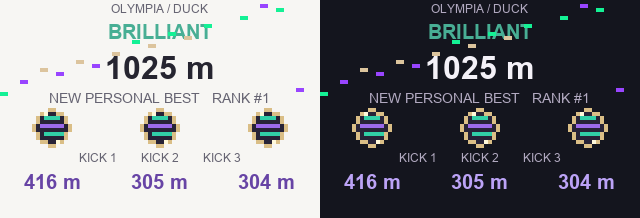
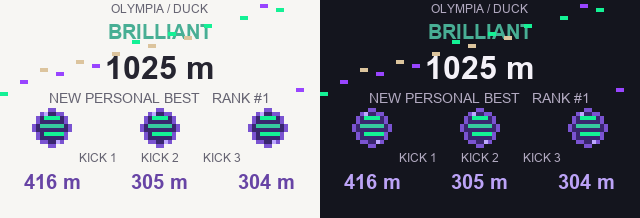
feat: zoomed play and mesh nearby score sharing

diff --git a/sim.py b/sim.py
@@ -13,6 +13,8 @@ def state(): return G._S.mode
 
 def play_swing(release_at_y):
     """hold select from the first tick, release when token y >= release_at_y"""
+    while state() == "intro": tick()
+    assert state() == "drop"
     keys["select"] = True
     while state() == "drop":
         tick()
@@ -32,48 +34,63 @@ G.on_key("up", False)
 assert store.get("map") == 2, "UP should cycle map without starting the game"
 G.on_key("up", False); assert store.get("map") == 3
 G.on_key("up", False); assert store.get("map") == 4, "Olympia must be selectable"
-assert any(x == ("label", "UP  OLYMPIA") for x in log)
+assert any(x == ("label", "^v  OLYMPIA") for x in log)
 G.on_key("up", False); assert store.get("map") == 1, "map selection must wrap"
 G.on_key("up", False); assert store.get("map") == 2
-assert any(x == ("label", "UP  COVENT GARDEN") for x in log)
+assert any(x == ("label", "^v  COVENT GARDEN") for x in log)
 tick(2)  # exercise the preview renderer after switching maps
 G.on_key("left", False)  # wraps past the hidden skin
 assert store.get("skin") == 9, "hidden skin must be skipped before stage 1 is done"
-G.on_key("down", False); assert store.get("stick") == 1, "locked bat must be skipped"
-G.on_key("select", False); assert state() == "drop", state()
+G.on_key("down", False); assert store.get("map") == 1, "DOWN selects the previous map"
+G.on_key("down", False); assert store.get("map") == 4, "DOWN wraps from first to last map"
+G.on_key("up", False); assert store.get("map") == 1
+G.on_key("up", False); assert store.get("map") == 2
+G.on_key("select", False); assert state() == "intro", state()
+tick(21); assert state() == "drop", "parallax intro must finish"
 assert G._S.map == 2, "selected scene must carry into gameplay"
-results = [play_swing(29), play_swing(20), play_swing(45)]
+results = [play_swing(43), play_swing(36), play_swing(60)]
 assert store.get("stage1Done") is True, "Sabadinhos skin should unlock after stage 1"
 G.on_key("back", False); assert state() == "title"
 G.on_key("right", False); assert store.get("skin") == 10, "Sabadinhos should be selectable after stage 1"
-G.on_key("select", False); assert state() == "drop", "unlocked skin should launch immediately"
+G.on_key("select", False); assert state() == "intro", "unlocked skin should launch immediately"
 G.on_key("back", False); assert state() == "title"
 print("swings (mode, secs, total):", results)
 print("final mode:", state(), "total:", round(G._S.total), "best:", store.get("best"), "awards:", awards)
 print("hints/toasts:", [x for x in log if x[0] != "label"][-4:])
 print("labels:", [x[1] for x in log if x[0] == "label"][-8:])
 
-G.on_key("select", False); assert state() == "drop"
-r2 = [play_swing(29) for _ in range(3)]
+G.on_key("select", False); assert state() == "intro"
+r2 = [play_swing(43) for _ in range(3)]
 print("run2:", r2, "mode:", state(), "awards:", awards)
 assert state() == "end"
 assert len(G._S.shots) == 3 and sum(G._S.shots.values()) == int(G._S.total), "all kick scores must be on the result"
 assert G._S.celebrate > 0, "end scene confetti must begin"
 assert any(x[0] == "label" and "KICK 1" in x[1] for x in log), "end scene must show individual kicks"
 tick(100); assert G._S.celebrate == 0, "confetti must stop instead of burning CPU"
-G.on_key("select", False); assert state() == "drop" and len(G._S.shots) == 0, "replay must reset kick stats"
+G.on_key("select", False); assert state() == "intro" and len(G._S.shots) == 0, "replay must reset kick stats"
 G.on_key("back", False); assert state() == "title"
-G.on_key("select", False); assert state() == "drop"
-[play_swing(29) for _ in range(3)]
+G.on_key("select", False); assert state() == "intro"
+[play_swing(43) for _ in range(3)]
 assert state() == "end"
+G.on_key("down", False); assert store.get("stick") == 2
+G.on_key("down", False); assert store.get("stick") == 1, "locked Ledger must be skipped"
+G.on_mesh("FRIEND1", L.table(kind="moonshot-score", value=777))
+assert store.get("peers")["FRIEND1"]["name"] == "@friend"
+G.on_mesh("FRIEND1", L.table(kind="moonshot-score", value=600))
+assert store.get("peers")["FRIEND1"]["score"] == 777, "peer personal best must not decrease"
+G.on_mesh("BAD1111", L.table(kind="moonshot-score", value=999999))
+G.on_mesh("BAD2222", L.table(kind="moonshot-score", value=123.5))
+G.on_mesh("7K2Q9M", L.table(kind="moonshot-score", value=999))
+assert store.get("peers")["BAD1111"] is None and store.get("peers")["BAD2222"] is None
+assert store.get("peers")["7K2Q9M"] is None
 G.on_key("up", False); assert state() == "ranks", state()
+assert any(i.get("title", "").endswith("@friend") for x in log if x[0] == "list" for i in x[1])
 print("rank list:", [x for x in log if x[0] == "list"][-1])
 G.on_key("back", False); assert state() == "title"
 print("OK")
 
-# bats remain a separate DOWN action on the title screen
-G.on_key("down", False); print("stick:", store.get("stick"), [x[1] for x in log if x[0]=="label"][-1])
-G.on_key("down", False); print("stick:", store.get("stick"), [x[1] for x in log if x[0]=="label"][-1])
-G.on_key("select", False); print("mode after select on stick 3 (best=%s):" % store.get("best"), state())
+# DOWN on title moves the map, while the selected bat persists after the result screen.
+G.on_key("down", False); assert store.get("stick") == 1
+G.on_key("select", False); print("mode after replay (best=%s):" % store.get("best"), state())
 print("ranks stored:", store.get("ranks") and [dict(v.items()) for v in store.get("ranks").values()])
 print("OK2")

diff --git a/scripts/map_art.py b/scripts/map_art.py
@@ -18,6 +18,12 @@ def scene(kind):
   box(16,7,21,9,'s');box(17,7,20,8,'d');dot(19,8,'c')
   box(17,11,18,15,'s');box(20,11,20,15,'s')
   box(51,13,75,16,'l');box(57,10,67,12,'l');box(61,8,63,9,'l')
+  # The London Eye stays faint and distant behind the skyline.
+  for x in range(55,70):
+   for y in range(1,15):
+    r=(x-62)*(x-62)+(y-7)*(y-7)
+    if 30<=r<=44:dot(x,y,'s')
+  box(62,9,62,14,'l')
  elif kind=='TOWER BRIDGE':
   # Twin neo-Gothic towers connected by suspended arches above the Thames.
   box(4,14,76,16,'l');box(8,12,72,13,'d')
@@ -38,20 +44,16 @@ def scene(kind):
    box(x,10,x+6,14,'l');box(x+1,9,x+5,9,'s');box(x+2,11,x+4,14,'d')
   box(12,2,16,3,'l');box(62,2,67,3,'l')
  elif kind=='OLYMPIA':
-  # Olympia Grand Hall's arched glass roof; the Eye reads as a London landmark.
-  box(2,13,47,16,'d')
-  for x in range(4,46):
-   y=3+((x-24)*(x-24))//82
-   dot(x,y,'s');box(x,y+1,x,12,'l')
-  for x in range(9,45,7):box(x,8,x,12,'d')
-  box(19,1,29,2,'s');box(6,12,44,12,'d')
-  for x in range(53,72):
-   for y in range(0,17):
-    radius=(x-62)*(x-62)+(y-8)*(y-8)
-    if 52<=radius<=78:dot(x,y,'s')
-  box(61,7,63,9,'c');box(61,10,63,16,'d')
-  for x,y in ((62,1),(62,15),(54,8),(70,8)):dot(x,y,'c')
-  box(49,15,76,16,'l')
+  # Single arched iron-and-glass Grand Hall; no unrelated wheel beside it.
+  box(3,13,76,16,'d')
+  for x in range(7,73):
+   y=2+((x-39)*(x-39))//145
+   dot(x,y,'s')
+   if x%3==0:box(x,y+1,x,12,'l')
+  box(7,11,72,12,'s')
+  for x in range(10,72,12):
+   box(x,12,x+1,16,'s');box(x+3,13,x+9,15,'l')
+  box(34,1,45,1,'s')
  else:raise ValueError(kind)
  return [''.join(row) for row in g]
 
@@ -83,15 +85,13 @@ def icon(kind):
    box(x,9,x+4,14,'s');box(x+1,10,x+3,14,'l');box(x+2,11,x+2,14,'.')
   box(2,8,2,15,'s');box(21,8,21,15,'s')
  elif kind=='OLYMPIA':
-  box(1,14,12,16,'d')
-  for x in range(1,13):
-   y=4+((x-6)*(x-6))//8
-   box(x,y,x,13,'l');box(x,y,x,y,'s')
-  for x in range(13,24):
-   for y in range(1,16):
-    r=(x-18)*(x-18)+(y-8)*(y-8)
-    if 32<=r<=54:g[y][x]='s'
-  box(17,8,19,9,'c');box(18,10,18,16,'d')
+  box(1,14,22,16,'d')
+  for x in range(2,22):
+   y=2+((x-11)*(x-11))//12
+   box(x,y,x,y,'s')
+   if x%2==0:box(x,y+1,x,13,'l')
+  box(2,12,21,13,'s')
+  for x in (3,8,13,18):box(x,13,x,16,'d')
  else:raise ValueError(kind)
  return [''.join(row) for row in g]
 

diff --git a/scripts/end_study.py b/scripts/end_study.py
@@ -8,7 +8,7 @@ def font(n,b=False):return ImageFont.truetype(BOLD if b else FONT,n)
 def center(d,text,y,size,color,x=0,w=320,b=False):
  f=font(size,b);tw=d.textbbox((0,0),text,font=f)[2]
  d.text((x+(w-tw)//2,y),text,font=f,fill=color)
-colors={'.':None,'y':'#DABE86','k':'#272337','e':'#31CFA7','b':'#9B6AEA','w':'#FFF9DA'}
+colors={'.':None,'y':'#7A53D1','k':'#39266E','e':'#14F195','b':'#36C99F','w':'#BEA9FF'}
 out=Image.new('RGB',(640,218))
 for theme in range(2):
  bg='#F7F6F3' if theme==0 else '#14151E';ink='#262530' if theme==0 else '#F4F1F8';muted='#666472' if theme==0 else '#B1A9C0';purple='#6744A5' if theme==0 else '#BCA3F7'

diff --git a/scripts/menu_study.py b/scripts/menu_study.py
@@ -42,9 +42,9 @@ for theme in range(2):
   center(d,'SOL TO THE MOON',4,f(27,True),ink)
   center(d,'MAP',36,f(11,True),muted,0,160)
   center(d,'CHARACTER',36,f(11,True),muted,160,320)
-  center(d,'UP  '+mapname,129,f(13,True),purple,0,160)
+  center(d,'^v  '+mapname,129,f(13,True),purple,0,160)
   center(d,'< '+name+' >',129,f(13,True),purple,160,320)
-  center(d,'DOWN  BROLLY  /  balanced',154,f(14),muted)
+  center(d,'BAT  BROLLY  /  balanced',154,f(14),muted)
   d.rounded_rectangle((74,175,246,203),radius=6,fill=(72,174,148))
   center(d,'SELECT  PLAY',178,f(20,True),(255,255,255))
   out.paste(im,(i*320,theme*218))

diff --git a/sim_env.py b/sim_env.py
@@ -71,6 +71,8 @@ def load(seed=None):
                         remove=lambda k: store.pop(k, None))
     G.led = L.table(count=8, set=noop, hex=noop, fill=noop, off=noop)
     G.badge = L.table(owner=lambda: "@tester", id=lambda: "7K2Q9M")
+    G.mesh = L.table(send=lambda to, msg: log.append(("mesh", to, msg["value"])),
+                     nearby=lambda: L.table_from([L.table(id="FRIEND1", name="@friend", level=42)]))
     G.sys = L.table(keys=lambda: L.table(select=keys["select"]), millis=lambda: 0)
 
     def award(amount, reason, cb):

diff --git a/calib.py b/calib.py
@@ -6,9 +6,11 @@ def run_case(power, dy, wind, seed=0):
     L, G, keys = sim_env.load(seed=seed)
     G.on_key("select", False)
     S = G._S
+    assert S.mode == "intro"
+    S.mode = "drop"  # skip only the intro; keep calibrated gameplay physics
     S.wind = wind; S.power = power
-    S.wait = 0  # skip the stage intro for direct physics calibration
-    S.token.y = 33 - 4 + dy
+    S.wait = 0
+    S.token.y = 47 - 4 + dy
     S.charging = True
     keys["select"] = False
     G.on_tick(30)

diff --git a/scripts/token_art.py b/scripts/token_art.py
@@ -17,7 +17,7 @@ def coin(frame=0):
     return [''.join(row) for row in p]
 
 if __name__=='__main__':
-    colors={'.':(25,23,34),'y':(218,190,134),'k':(39,35,55),'e':(49,207,167),'b':(155,106,234),'w':(255,249,218)}
+    colors={'.':(25,23,34),'y':(122,83,209),'k':(57,38,110),'e':(20,241,149),'b':(54,201,159),'w':(190,169,255)}
     im=Image.new('RGB',(100,50),colors['.'])
     for f in range(2):
         for y,row in enumerate(coin(f)):

diff --git a/README.md b/README.md
@@ -6,19 +6,19 @@ A SOL coin drops. Hold SELECT to charge power, release when it crosses the bat. 
 
 ## Characters and UI
 
-Ten original 16×18 logical-pixel sprites, shown at 4× (64×72 screen pixels): Duck, Cute Animal (fox), Beanie Degen, Senior Dev, Ponytail Dev, Bob Builder, Validator, Onchain Artist, DAO Scout, and Sabadinhos. Sabadinhos is hidden until completing stage one. The native screen is 320×240, with 320×218 available to apps; gameplay renders on an 80×54 canvas at 4×. Each character uses the same seafoam/peach/lavender family with multiple skin shades and distinct accessories. Art source: `scripts/character_art.py`. Preview sheets are `shots/character_study_light.png` and `shots/character_study_dark.png` (art studies, not emulator screenshots). Reference studies only: [Sonic Advance 2 animals](https://www.spriters-resource.com/game_boy_advance/sonicadv2/asset/76977) and [Final Fantasy V Advance portraits](https://www.spriters-resource.com/game_boy_advance/finalfantasy5advance/asset/5156). No third-party sprites copied.
+Ten original 16×18 logical-pixel sprites: Duck, Cute Animal (fox), Beanie Degen, Senior Dev, Ponytail Dev, Bob Builder, Validator, Onchain Artist, DAO Scout, and Sabadinhos. Sabadinhos unlocks after the first kick. The native screen is 320×240, with 320×218 available to apps. Menu/results use an 80×54 canvas at 4×; gameplay is zoomed out on a 106×72 canvas at 3×. Art source: `scripts/character_art.py`. Preview sheets are art studies, not emulator screenshots.
 
 Native `ui.label` supports sizes 12/14/20/32 and `mono`, but no arbitrary font-family. The menu uses built-in ABC Diatype labels and theme colors. Idle sprites alternate between two cached frames every 200 ms: the second removes one waist row, lifting the feet by one canvas pixel. No GIF decoder, file reads or per-frame image loading.
 
-Four original, restrained London pixel backdrops (Westminster with Big Ben, Tower Bridge, Covent Garden, and Olympia with an arched hall and London Eye) appear as transparent 80×17 parallax strips during play. The menu has transparent 24×17 landmark emblems on the left and a character face on the right. The result scene shows total, individual kicks, personal best/rank, and brief confetti. Art sources: `scripts/map_art.py`, `scripts/token_art.py`; `shots/menu_final_study.png` and `shots/end_study.png` are generated layout studies, not badge screenshots.
+Four London pixel maps: Westminster (Big Ben and a distant London Eye), Tower Bridge, Covent Garden, and Olympia (one arched Grand Hall). The menu has transparent landmark emblems and character faces. A 0.6-second faux-3D parallax fly-in moves foreground faster than the skyline before each kick. The SOL coin uses only purple/green tones. `shots/menu_final_study.png` and `shots/end_study.png` are generated layout studies, not badge screenshots.
 
 ## Controls
 
-- SELECT: start immediately; during the run hold for charge and release to swing
+- UP / DOWN (menu): cycle maps forward/back in the left-hand panel
 - LEFT / RIGHT (menu): cycle unlocked characters in the right-hand panel
-- UP (menu): cycle four maps in the left-hand panel (Westminster, Tower Bridge, Covent Garden, Olympia). Each run still has three kicks.
-- DOWN (menu): cycle sticks (Brolly, Big Ben, Ledger; the last two unlock by best score)
-- UP (end screen): local top-five rank board
+- SELECT: start immediately; during a kick hold for charge and release to swing
+- DOWN (end screen): choose the next unlocked bat (Brolly, Big Ben, Ledger)
+- UP (end screen): scores from you and badges met while running this same app
 - CANCEL: back to menu / exit
 
 ## Test and transfer
@@ -26,5 +26,7 @@ Four original, restrained London pixel backdrops (Westminster with Big Ben, Towe
 Use the `app.json` and `main.lua` files on the [app submission page](https://solana.com/breakpoint/badge/apps/submit). Try in emulator or Run on badge (desktop Chrome/Edge via USB); publishing is a separate step. Do not upload the entire repository, which includes Python tests and screenshots.
 
 For local simulation, create `.venv` with Lua 5.5 `lupa` and run `sim.py`. `calib.py 10` runs a physics sweep. Both are headless; physical badge visual and performance QA remain necessary.
+
+The scoreboard uses the `mesh` permission to exchange personal-best scores with nearby badges **running this app**. It saves the last eight peers seen and shows the top five with your own best. This is not a global Yearbook ranking or a list of confirmed friends: scores are self-reported by peers and are **never** used for !LAMP awards. It needs at least two badges on the same event mesh channel (or a mesh bridge); test solo runs normally but shows only YOU. Mesh radio mode can interrupt Wi-Fi on older Solana OS builds, so verify !LAMP award behavior on the actual firmware.
 
 `lamps.award` pays only after DevRel sets an award cap for app id `moonshot`.
